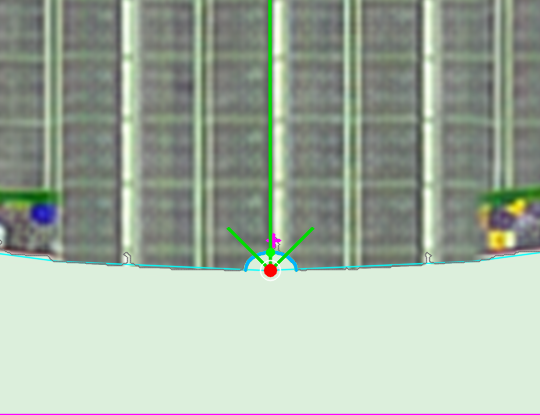
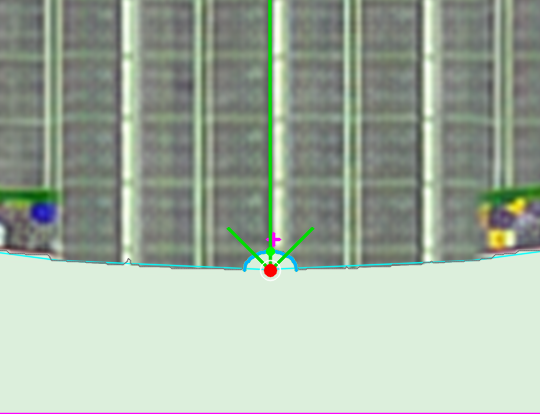
Tune small notch background morphology

diff --git a/tools/validate_wide_shallow_notches.py b/tools/validate_wide_shallow_notches.py
@@ -53,6 +53,7 @@ def main() -> None:
             notch_roi_center_px=(5000, 9650),
             notch_roi_half_size_px=(600, 600),
             notch_semicircle_radius_range_px=(30, 80),
+            notch_background_morph_px=8,
             failure_mode="error",
         )
         overlay = make_notch_overlay(image, result, max_dimension=5000)
@@ -106,6 +107,7 @@ def main() -> None:
                 notch_roi_center_px=(5000, 9650),
                 notch_roi_half_size_px=(600, 600),
                 notch_semicircle_radius_range_px=(30, 80),
+                background_morph_px=8,
             )
             cv2.imwrite(
                 str(IMAGE_DIR / f"debug_{name}_background_stages.png"), debug

diff --git a/codex/README_NOTCH_ROI_SEMICIRCLE_KO.md b/codex/README_NOTCH_ROI_SEMICIRCLE_KO.md
@@ -63,13 +63,16 @@ dm = build_die_map_from_yolo(
     notch_roi_center_px=(5000, 9650),
     notch_roi_half_size_px=(600, 600),
     notch_semicircle_radius_range_px=(40, 70),
+    notch_background_morph_px=8,  # 원본 폭 105~110 px의 작은 notch
     notch_semicircle_min_score=0.55,
     notch_failure_mode="error",
 )
 ```
 
 가로 반폭 범위도 원본 이미지 픽셀 단위입니다. 실제 크기를 모르면 이 옵션은 생략하고
-자동 범위를 사용하십시오.
+자동 범위를 사용하십시오. 이 샘플처럼 원본 notch 폭이 약 105 px로 작으면
+`notch_background_morph_px=8`부터 시작하고, 더 큰 끊김이나 노이즈가 있을 때만
+조금씩 키우십시오.
 
 ## 개선된 angle 보정 원리
 
